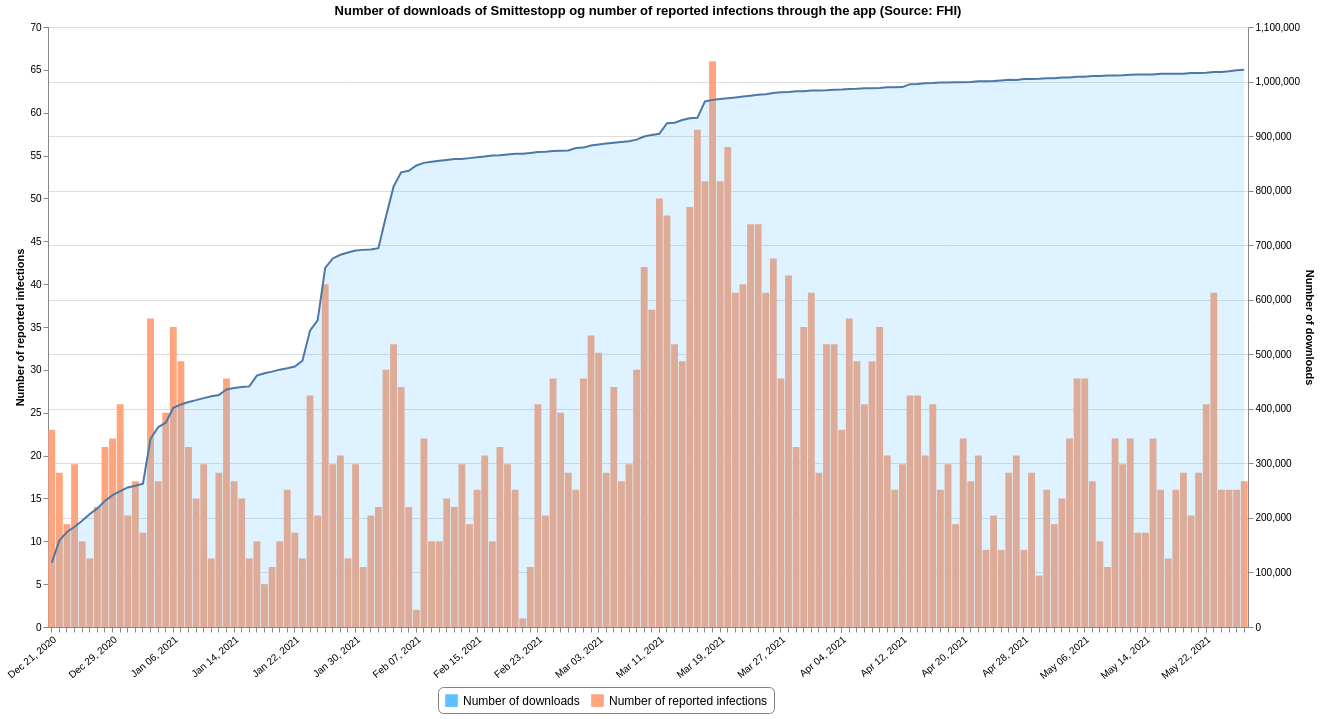
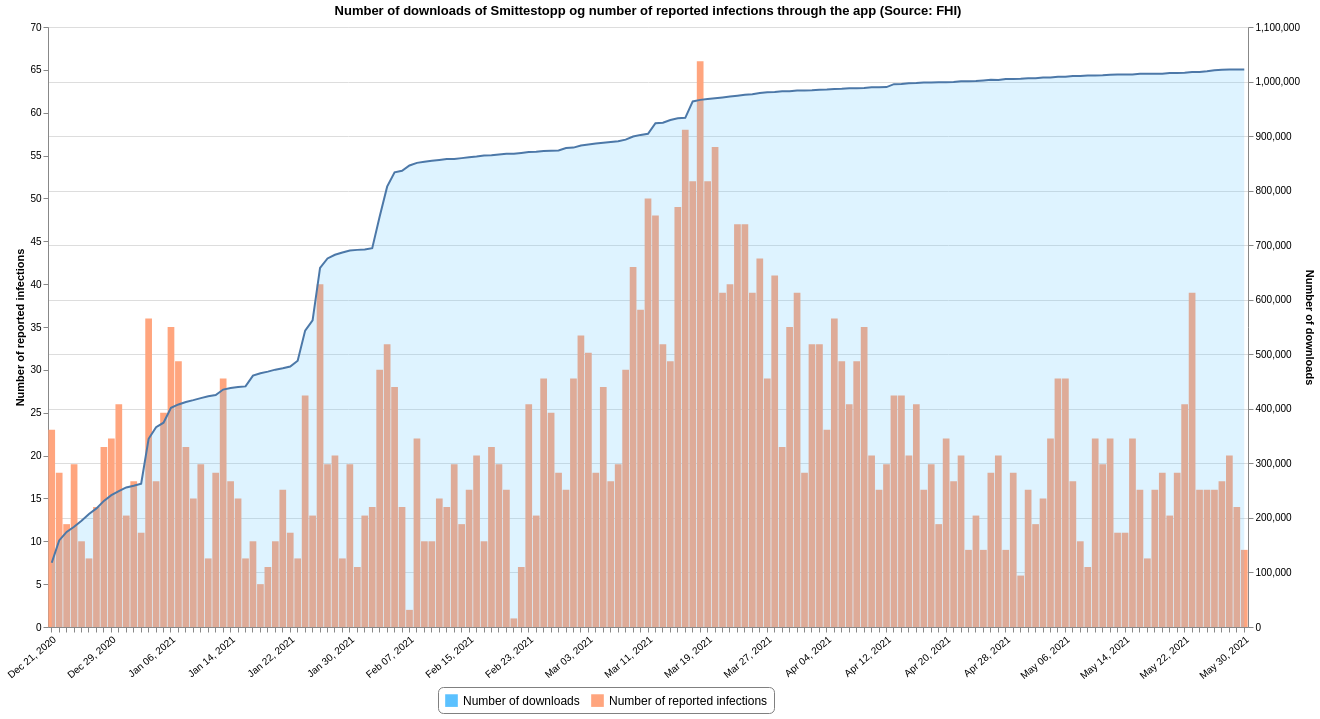
Updated 2021-05-31 10:31

diff --git a/README.md b/README.md
@@ -17,7 +17,7 @@ This repository contains datasets of daily time-series data related to COVID-19 
 |[Tested Lab](#tested_labcsv)|FHI|2021-05-28 13:20:50+02:00|[<center>csv</center>](https://raw.githubusercontent.com/frefrik/c19norge-data/main/data/tested_lab.csv)|[<center>preview</center>](data/tested_lab.csv)|
 |[Transport](#transportcsv)|FHI|2021-05-27 13:30:56+02:00|[<center>csv</center>](https://raw.githubusercontent.com/frefrik/c19norge-data/main/data/transport.csv)|[<center>preview</center>](data/transport.csv)|
 |[Vaccine Doses](#vaccine_dosescsv)|FHI|2021-05-28 13:20:56+02:00|[<center>csv</center>](https://raw.githubusercontent.com/frefrik/c19norge-data/main/data/vaccine_doses.csv)|[<center>preview</center>](data/vaccine_doses.csv)|
-|[Smittestopp](#smittestoppcsv)|FHI|2021-05-28 15:30:59+02:00|[<center>csv</center>](https://raw.githubusercontent.com/frefrik/c19norge-data/main/data/smittestopp.csv)|[<center>preview</center>](data/smittestopp.csv)|
+|[Smittestopp](#smittestoppcsv)|FHI|2021-05-31 10:30:58+02:00|[<center>csv</center>](https://raw.githubusercontent.com/frefrik/c19norge-data/main/data/smittestopp.csv)|[<center>preview</center>](data/smittestopp.csv)|
 <!-- table ends -->
 
 ## Datafiles
